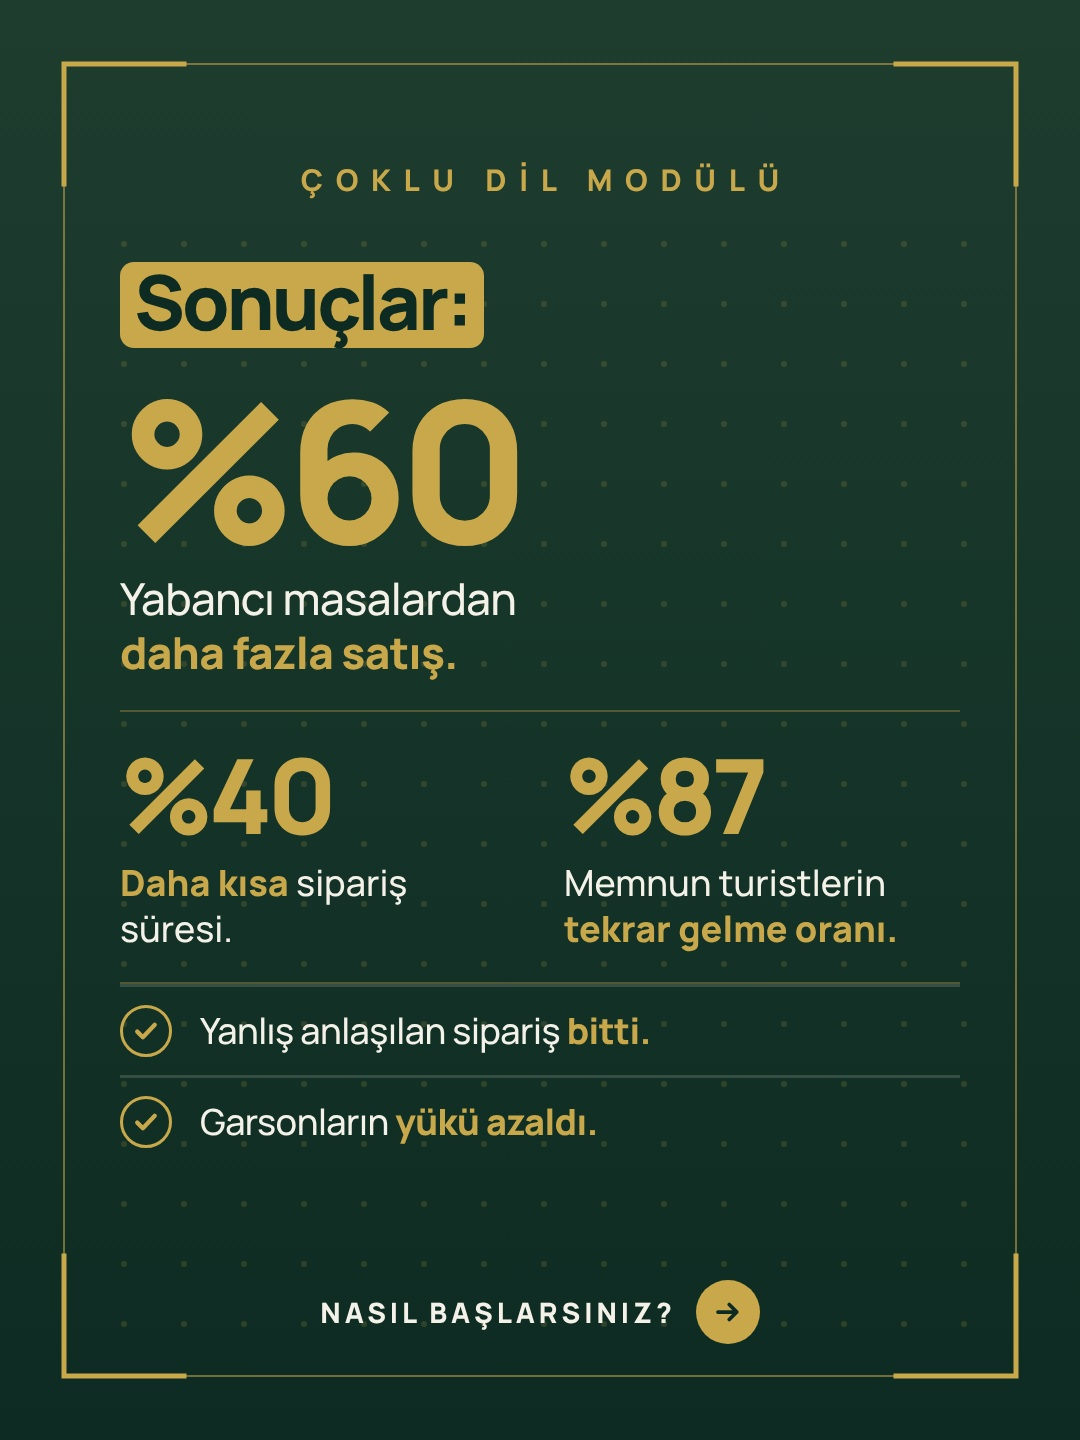
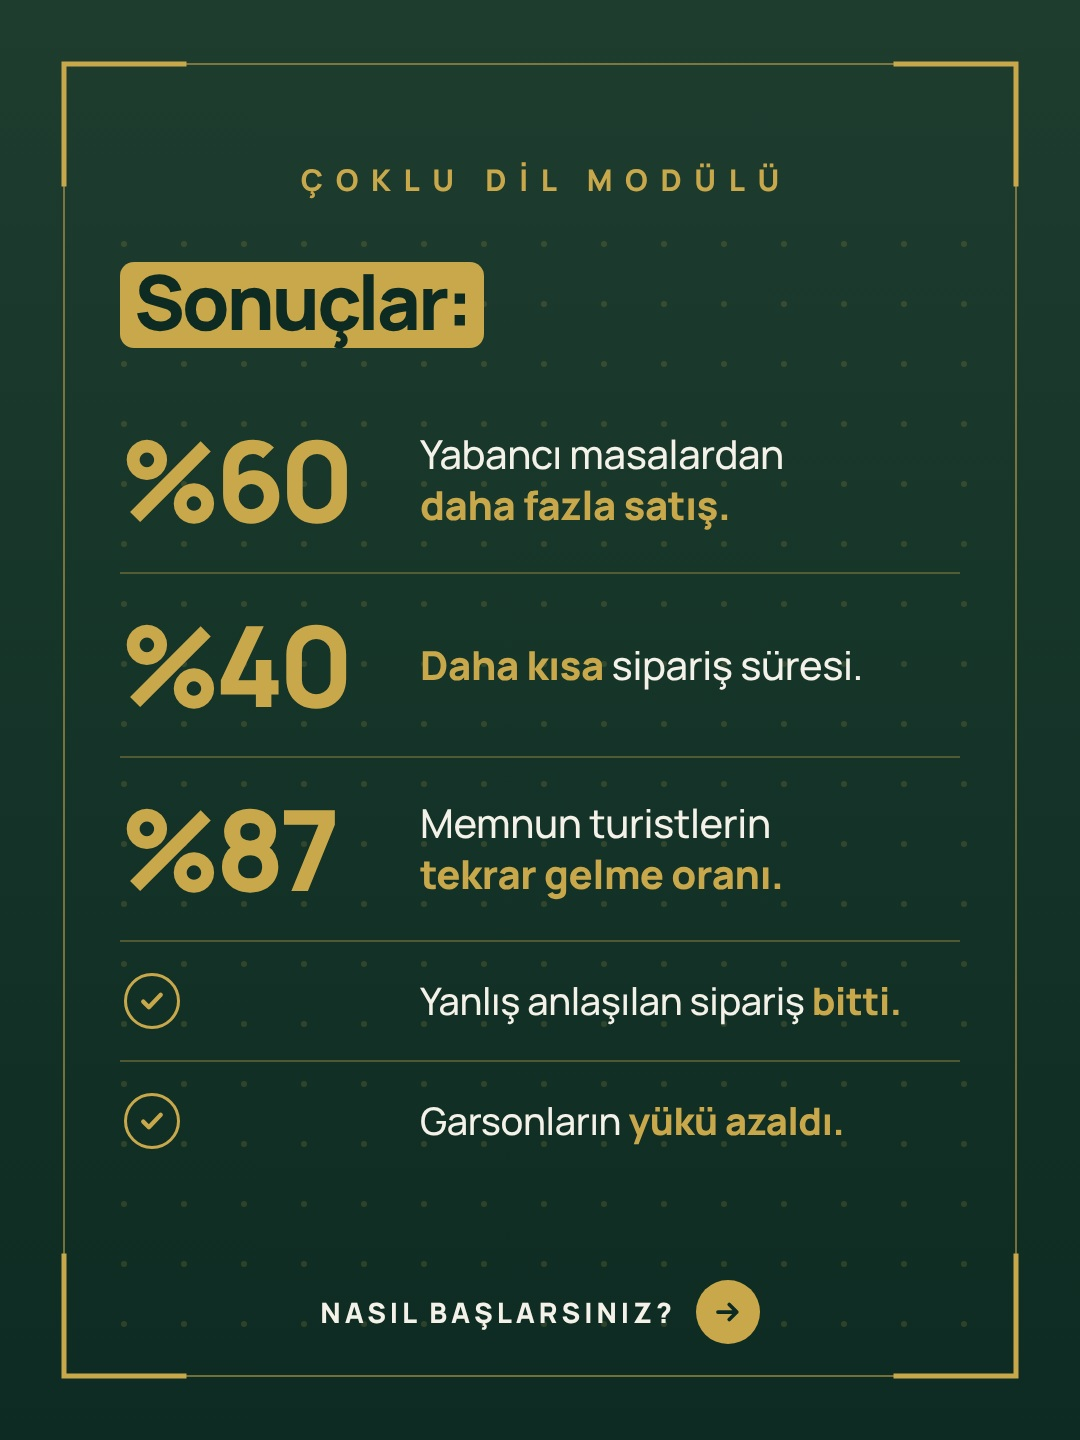
Carousel slayt 4: tek ızgara tablo düzeni
Claude-Session: https://claude.ai/code/session_01FBw9rVwrniVjyFvtgVdFXq

Changed region(s): [[0.0917, 0.25, 0.8861, 0.8125]]

diff --git a/analiz/carousel-dil/carousel-v6.html b/analiz/carousel-dil/carousel-v6.html
@@ -115,6 +115,17 @@ body{background:linear-gradient(var(--y2),var(--y))!important;color:var(--off)!i
 .c2 .num{font-weight:800;font-size:104px;letter-spacing:-.05em;line-height:1;color:var(--g)}
 .c2 .d{margin-top:14px;font-size:36px;line-height:1.28;font-weight:500}
 .c2 .d b{color:var(--g);font-weight:800}
+.tbl{margin-top:40px}
+.tr{display:grid;grid-template-columns:300px 1fr;align-items:center;border-top:2px solid #C9A84C55}
+.tr:first-child{border-top:none}
+.tr.big{height:184px}
+.tr.sm{height:120px}
+.tr .c1{font-weight:800;font-size:112px;letter-spacing:-.05em;line-height:1;color:var(--g)}
+.tr .c1 i{display:grid;place-items:center;width:56px;height:56px;border:3px solid var(--g);border-radius:50%;margin-left:4px}
+.tr .c2t{font-size:40px;line-height:1.26;font-weight:500;letter-spacing:-.01em}
+.tr.sm .c2t{font-size:38px}
+.tr .c2t b{color:var(--g);font-weight:800}
+.tr .c1 i svg{stroke:#C9A84C!important}
 </style></head><body>
 <svg class="rg a" width="1080" height="1440" viewBox="0 0 1080 1440" fill="none"><g><circle cx="1200" cy="300" r="180" stroke="#0D2B22" stroke-width="3.0" opacity="0.198"/><circle cx="1200" cy="300" r="300" stroke="#0D2B22" stroke-width="2.6" opacity="0.162"/><circle cx="1200" cy="300" r="420" stroke="#0D2B22" stroke-width="2.2" opacity="0.126"/><circle cx="1200" cy="300" r="540" stroke="#0D2B22" stroke-width="2.0" opacity="0.095"/><circle cx="1200" cy="300" r="660" stroke="#0D2B22" stroke-width="1.6" opacity="0.068"/><circle cx="1200" cy="300" r="780" stroke="#0D2B22" stroke-width="1.4" opacity="0.045"/><circle cx="1200" cy="300" r="900" stroke="#0D2B22" stroke-width="1.2" opacity="0.032"/></g><g><circle cx="-120" cy="1560" r="180" stroke="#0D2B22" stroke-width="2.4" opacity="0.135"/><circle cx="-120" cy="1560" r="300" stroke="#0D2B22" stroke-width="2" opacity="0.099"/><circle cx="-120" cy="1560" r="420" stroke="#0D2B22" stroke-width="1.6" opacity="0.068"/><circle cx="-120" cy="1560" r="520" stroke="#0D2B22" stroke-width="1.3" opacity="0.045"/></g></svg> <svg class="rg z" width="1080" height="1440" viewBox="0 0 1080 1440" fill="none"><g><circle cx="1200" cy="300" r="180" stroke="#C9A84C" stroke-width="3.0" opacity="0.242"/><circle cx="1200" cy="300" r="300" stroke="#C9A84C" stroke-width="2.6" opacity="0.198"/><circle cx="1200" cy="300" r="420" stroke="#C9A84C" stroke-width="2.2" opacity="0.154"/><circle cx="1200" cy="300" r="540" stroke="#C9A84C" stroke-width="2.0" opacity="0.116"/><circle cx="1200" cy="300" r="660" stroke="#C9A84C" stroke-width="1.6" opacity="0.083"/><circle cx="1200" cy="300" r="780" stroke="#C9A84C" stroke-width="1.4" opacity="0.055"/><circle cx="1200" cy="300" r="900" stroke="#C9A84C" stroke-width="1.2" opacity="0.039"/></g><g><circle cx="-120" cy="1560" r="180" stroke="#C9A84C" stroke-width="2.4" opacity="0.165"/><circle cx="-120" cy="1560" r="300" stroke="#C9A84C" stroke-width="2" opacity="0.121"/><circle cx="-120" cy="1560" r="420" stroke="#C9A84C" stroke-width="1.6" opacity="0.083"/><circle cx="-120" cy="1560" r="520" stroke="#C9A84C" stroke-width="1.3" opacity="0.055"/></g></svg>
 <svg class="fr" width="1080" height="1440" viewBox="0 0 1080 1440" fill="none" stroke="#C9A84C" stroke-linecap="square"><rect x="64" y="64" width="952" height="1312" stroke-width="2" opacity=".55"/><g stroke-width="5"><path d="M64 184V64h120M896 64h120v120M1016 1256v120H896M184 1376H64V1256"/></g></svg><svg style="position:absolute;inset:0;z-index:0" width="1080" height="1440" fill="#C9A84C" opacity=".17"><circle cx="124" cy="244" r="3"/><circle cx="124" cy="304" r="3"/><circle cx="124" cy="364" r="3"/><circle cx="124" cy="424" r="3"/><circle cx="124" cy="484" r="3"/><circle cx="124" cy="544" r="3"/><circle cx="124" cy="604" r="3"/><circle cx="124" cy="664" r="3"/><circle cx="124" cy="724" r="3"/><circle cx="124" cy="784" r="3"/><circle cx="124" cy="844" r="3"/><circle cx="124" cy="904" r="3"/><circle cx="124" cy="964" r="3"/><circle cx="124" cy="1024" r="3"/><circle cx="124" cy="1084" r="3"/><circle cx="124" cy="1144" r="3"/><circle cx="124" cy="1204" r="3"/><circle cx="124" cy="1264" r="3"/><circle cx="124" cy="1324" r="3"/><circle cx="184" cy="244" r="3"/><circle cx="184" cy="304" r="3"/><circle cx="184" cy="364" r="3"/><circle cx="184" cy="424" r="3"/><circle cx="184" cy="484" r="3"/><circle cx="184" cy="544" r="3"/><circle cx="184" cy="604" r="3"/><circle cx="184" cy="664" r="3"/><circle cx="184" cy="724" r="3"/><circle cx="184" cy="784" r="3"/><circle cx="184" cy="844" r="3"/><circle cx="184" cy="904" r="3"/><circle cx="184" cy="964" r="3"/><circle cx="184" cy="1024" r="3"/><circle cx="184" cy="1084" r="3"/><circle cx="184" cy="1144" r="3"/><circle cx="184" cy="1204" r="3"/><circle cx="184" cy="1264" r="3"/><circle cx="184" cy="1324" r="3"/><circle cx="244" cy="244" r="3"/><circle cx="244" cy="304" r="3"/><circle cx="244" cy="364" r="3"/><circle cx="244" cy="424" r="3"/><circle cx="244" cy="484" r="3"/><circle cx="244" cy="544" r="3"/><circle cx="244" cy="604" r="3"/><circle cx="244" cy="664" r="3"/><circle cx="244" cy="724" r="3"/><circle cx="244" cy="784" r="3"/><circle cx="244" cy="844" r="3"/><circle cx="244" cy="904" r="3"/><circle cx="244" cy="964" r="3"/><circle cx="244" cy="1024" r="3"/><circle cx="244" cy="1084" r="3"/><circle cx="244" cy="1144" r="3"/><circle cx="244" cy="1204" r="3"/><circle cx="244" cy="1264" r="3"/><circle cx="244" cy="1324" r="3"/><circle cx="304" cy="244" r="3"/><circle cx="304" cy="304" r="3"/><circle cx="304" cy="364" r="3"/><circle cx="304" cy="424" r="3"/><circle cx="304" cy="484" r="3"/><circle cx="304" cy="544" r="3"/><circle cx="304" cy="604" r="3"/><circle cx="304" cy="664" r="3"/><circle cx="304" cy="724" r="3"/><circle cx="304" cy="784" r="3"/><circle cx="304" cy="844" r="3"/><circle cx="304" cy="904" r="3"/><circle cx="304" cy="964" r="3"/><circle cx="304" cy="1024" r="3"/><circle cx="304" cy="1084" r="3"/><circle cx="304" cy="1144" r="3"/><circle cx="304" cy="1204" r="3"/><circle cx="304" cy="1264" r="3"/><circle cx="304" cy="1324" r="3"/><circle cx="364" cy="244" r="3"/><circle cx="364" cy="304" r="3"/><circle cx="364" cy="364" r="3"/><circle cx="364" cy="424" r="3"/><circle cx="364" cy="484" r="3"/><circle cx="364" cy="544" r="3"/><circle cx="364" cy="604" r="3"/><circle cx="364" cy="664" r="3"/><circle cx="364" cy="724" r="3"/><circle cx="364" cy="784" r="3"/><circle cx="364" cy="844" r="3"/><circle cx="364" cy="904" r="3"/><circle cx="364" cy="964" r="3"/><circle cx="364" cy="1024" r="3"/><circle cx="364" cy="1084" r="3"/><circle cx="364" cy="1144" r="3"/><circle cx="364" cy="1204" r="3"/><circle cx="364" cy="1264" r="3"/><circle cx="364" cy="1324" r="3"/><circle cx="424" cy="244" r="3"/><circle cx="424" cy="304" r="3"/><circle cx="424" cy="364" r="3"/><circle cx="424" cy="424" r="3"/><circle cx="424" cy="484" r="3"/><circle cx="424" cy="544" r="3"/><circle cx="424" cy="604" r="3"/><circle cx="424" cy="664" r="3"/><circle cx="424" cy="724" r="3"/><circle cx="424" cy="784" r="3"/><circle cx="424" cy="844" r="3"/><circle cx="424" cy="904" r="3"/><circle cx="424" cy="964" r="3"/><circle cx="424" cy="1024" r="3"/><circle cx="424" cy="1084" r="3"/><circle cx="424" cy="1144" r="3"/><circle cx="424" cy="1204" r="3"/><circle cx="424" cy="1264" r="3"/><circle cx="424" cy="1324" r="3"/><circle cx="484" cy="244" r="3"/><circle cx="484" cy="304" r="3"/><circle cx="484" cy="364" r="3"/><circle cx="484" cy="424" r="3"/><circle cx="484" cy="484" r="3"/><circle cx="484" cy="544" r="3"/><circle cx="484" cy="604" r="3"/><circle cx="484" cy="664" r="3"/><circle cx="484" cy="724" r="3"/><circle cx="484" cy="784" r="3"/><circle cx="484" cy="844" r="3"/><circle cx="484" cy="904" r="3"/><circle cx="484" cy="964" r="3"/><circle cx="484" cy="1024" r="3"/><circle cx="484" cy="1084" r="3"/><circle cx="484" cy="1144" r="3"/><circle cx="484" cy="1204" r="3"/><circle cx="484" cy="1264" r="3"/><circle cx="484" cy="1324" r="3"/><circle cx="544" cy="244" r="3"/><circle cx="544" cy="304" r="3"/><circle cx="544" cy="364" r="3"/><circle cx="544" cy="424" r="3"/><circle cx="544" cy="484" r="3"/><circle cx="544" cy="544" r="3"/><circle cx="544" cy="604" r="3"/><circle cx="544" cy="664" r="3"/><circle cx="544" cy="724" r="3"/><circle cx="544" cy="784" r="3"/><circle cx="544" cy="844" r="3"/><circle cx="544" cy="904" r="3"/><circle cx="544" cy="964" r="3"/><circle cx="544" cy="1024" r="3"/><circle cx="544" cy="1084" r="3"/><circle cx="544" cy="1144" r="3"/><circle cx="544" cy="1204" r="3"/><circle cx="544" cy="1264" r="3"/><circle cx="544" cy="1324" r="3"/><circle cx="604" cy="244" r="3"/><circle cx="604" cy="304" r="3"/><circle cx="604" cy="364" r="3"/><circle cx="604" cy="424" r="3"/><circle cx="604" cy="484" r="3"/><circle cx="604" cy="544" r="3"/><circle cx="604" cy="604" r="3"/><circle cx="604" cy="664" r="3"/><circle cx="604" cy="724" r="3"/><circle cx="604" cy="784" r="3"/><circle cx="604" cy="844" r="3"/><circle cx="604" cy="904" r="3"/><circle cx="604" cy="964" r="3"/><circle cx="604" cy="1024" r="3"/><circle cx="604" cy="1084" r="3"/><circle cx="604" cy="1144" r="3"/><circle cx="604" cy="1204" r="3"/><circle cx="604" cy="1264" r="3"/><circle cx="604" cy="1324" r="3"/><circle cx="664" cy="244" r="3"/><circle cx="664" cy="304" r="3"/><circle cx="664" cy="364" r="3"/><circle cx="664" cy="424" r="3"/><circle cx="664" cy="484" r="3"/><circle cx="664" cy="544" r="3"/><circle cx="664" cy="604" r="3"/><circle cx="664" cy="664" r="3"/><circle cx="664" cy="724" r="3"/><circle cx="664" cy="784" r="3"/><circle cx="664" cy="844" r="3"/><circle cx="664" cy="904" r="3"/><circle cx="664" cy="964" r="3"/><circle cx="664" cy="1024" r="3"/><circle cx="664" cy="1084" r="3"/><circle cx="664" cy="1144" r="3"/><circle cx="664" cy="1204" r="3"/><circle cx="664" cy="1264" r="3"/><circle cx="664" cy="1324" r="3"/><circle cx="724" cy="244" r="3"/><circle cx="724" cy="304" r="3"/><circle cx="724" cy="364" r="3"/><circle cx="724" cy="424" r="3"/><circle cx="724" cy="484" r="3"/><circle cx="724" cy="544" r="3"/><circle cx="724" cy="604" r="3"/><circle cx="724" cy="664" r="3"/><circle cx="724" cy="724" r="3"/><circle cx="724" cy="784" r="3"/><circle cx="724" cy="844" r="3"/><circle cx="724" cy="904" r="3"/><circle cx="724" cy="964" r="3"/><circle cx="724" cy="1024" r="3"/><circle cx="724" cy="1084" r="3"/><circle cx="724" cy="1144" r="3"/><circle cx="724" cy="1204" r="3"/><circle cx="724" cy="1264" r="3"/><circle cx="724" cy="1324" r="3"/><circle cx="784" cy="244" r="3"/><circle cx="784" cy="304" r="3"/><circle cx="784" cy="364" r="3"/><circle cx="784" cy="424" r="3"/><circle cx="784" cy="484" r="3"/><circle cx="784" cy="544" r="3"/><circle cx="784" cy="604" r="3"/><circle cx="784" cy="664" r="3"/><circle cx="784" cy="724" r="3"/><circle cx="784" cy="784" r="3"/><circle cx="784" cy="844" r="3"/><circle cx="784" cy="904" r="3"/><circle cx="784" cy="964" r="3"/><circle cx="784" cy="1024" r="3"/><circle cx="784" cy="1084" r="3"/><circle cx="784" cy="1144" r="3"/><circle cx="784" cy="1204" r="3"/><circle cx="784" cy="1264" r="3"/><circle cx="784" cy="1324" r="3"/><circle cx="844" cy="244" r="3"/><circle cx="844" cy="304" r="3"/><circle cx="844" cy="364" r="3"/><circle cx="844" cy="424" r="3"/><circle cx="844" cy="484" r="3"/><circle cx="844" cy="544" r="3"/><circle cx="844" cy="604" r="3"/><circle cx="844" cy="664" r="3"/><circle cx="844" cy="724" r="3"/><circle cx="844" cy="784" r="3"/><circle cx="844" cy="844" r="3"/><circle cx="844" cy="904" r="3"/><circle cx="844" cy="964" r="3"/><circle cx="844" cy="1024" r="3"/><circle cx="844" cy="1084" r="3"/><circle cx="844" cy="1144" r="3"/><circle cx="844" cy="1204" r="3"/><circle cx="844" cy="1264" r="3"/><circle cx="844" cy="1324" r="3"/><circle cx="904" cy="244" r="3"/><circle cx="904" cy="304" r="3"/><circle cx="904" cy="364" r="3"/><circle cx="904" cy="424" r="3"/><circle cx="904" cy="484" r="3"/><circle cx="904" cy="544" r="3"/><circle cx="904" cy="604" r="3"/><circle cx="904" cy="664" r="3"/><circle cx="904" cy="724" r="3"/><circle cx="904" cy="784" r="3"/><circle cx="904" cy="844" r="3"/><circle cx="904" cy="904" r="3"/><circle cx="904" cy="964" r="3"/><circle cx="904" cy="1024" r="3"/><circle cx="904" cy="1084" r="3"/><circle cx="904" cy="1144" r="3"/><circle cx="904" cy="1204" r="3"/><circle cx="904" cy="1264" r="3"/><circle cx="904" cy="1324" r="3"/><circle cx="964" cy="244" r="3"/><circle cx="964" cy="304" r="3"/><circle cx="964" cy="364" r="3"/><circle cx="964" cy="424" r="3"/><circle cx="964" cy="484" r="3"/><circle cx="964" cy="544" r="3"/><circle cx="964" cy="604" r="3"/><circle cx="964" cy="664" r="3"/><circle cx="964" cy="724" r="3"/><circle cx="964" cy="784" r="3"/><circle cx="964" cy="844" r="3"/><circle cx="964" cy="904" r="3"/><circle cx="964" cy="964" r="3"/><circle cx="964" cy="1024" r="3"/><circle cx="964" cy="1084" r="3"/><circle cx="964" cy="1144" r="3"/><circle cx="964" cy="1204" r="3"/><circle cx="964" cy="1264" r="3"/><circle cx="964" cy="1324" r="3"/></svg><div class="s" id="S"></div>
@@ -162,14 +173,13 @@ const SL={
  </div>${nx('Sonuçları görün','#F4F1E8')}`},
 4:{bg:'krem',html:()=>`<div class="lab" style="font-size:30px;padding-top:34px">ÇOKLU DİL MODÜLÜ</div>
  <div class="area top" style="top:236px;bottom:260px"><div class="h" id="H" data-max="76" data-min="64">${L(['[[Sonuçlar:]]'])}</div>
- <div class="hero4"><div class="num">%60</div><div class="d">Yabancı masalardan<br><b>daha fazla satış.</b></div></div>
- <div class="two">
-  <div class="c2"><div class="num">%40</div><div class="d"><b>Daha kısa</b> sipariş süresi.</div></div>
-  <div class="c2"><div class="num">%87</div><div class="d">Memnun turistlerin <b>tekrar gelme oranı.</b></div></div>
- </div>
- <div class="chk"><i>${CHK}</i><div class="d">Yanlış anlaşılan sipariş <b>bitti.</b></div></div>
- <div class="chk"><i>${CHK}</i><div class="d">Garsonların <b>yükü azaldı.</b></div></div>
- </div>${nx('Nasıl başlarsınız?','#F4F1E8')}`},
+ <div class="tbl">
+  <div class="tr big"><div class="c1">%60</div><div class="c2t">Yabancı masalardan<br><b>daha fazla satış.</b></div></div>
+  <div class="tr big"><div class="c1">%40</div><div class="c2t"><b>Daha kısa</b> sipariş süresi.</div></div>
+  <div class="tr big"><div class="c1">%87</div><div class="c2t">Memnun turistlerin<br><b>tekrar gelme oranı.</b></div></div>
+  <div class="tr sm"><div class="c1"><i>${CHK}</i></div><div class="c2t">Yanlış anlaşılan sipariş <b>bitti.</b></div></div>
+  <div class="tr sm"><div class="c1"><i>${CHK}</i></div><div class="c2t">Garsonların <b>yükü azaldı.</b></div></div>
+ </div></div>${nx('Nasıl başlarsınız?','#F4F1E8')}`},
 5:{bg:'zumrut',html:()=>`<div class="lab">${MOD}</div>
  <div class="area c"><div class="h" id="H" data-max="72" data-min="60">${L(['Yalnızca bir dil modülü','değil: işletmenizin','satışlarını [[%150]] artıracak,','birden fazla modül','barındıran QR menü.'])}</div>
  <div class="chips"><span>Garson &amp; Hesap</span><span>QR Masa</span><span>Yorum &amp; Feedback</span><span>Menü Asistanı</span><span>Akıllı Filtreleme</span><span>Menü Analitiği</span></div>
